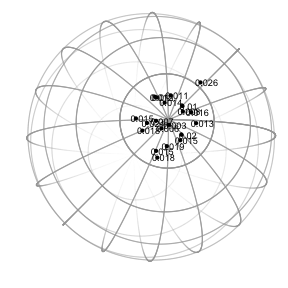
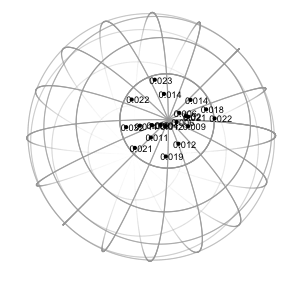
update with spherical outlier detection

Changed region(s): [[0.4062, 0.25, 0.8125, 0.5625]]

diff --git a/OutlierDetection/Outliers.tex b/OutlierDetection/Outliers.tex
@@ -61,13 +61,13 @@
 \Large{\bf Outlier Detection for Circular and Spherical Data}
 \end{center}
 \normalsize
-In this document I summarize the work done for outlier detection for circular, sphereical and related data types
+In this document I summarize the work done for outlier detection for circular, spherical and related data types
 
 \section{Circular Data}
 
-In \cite{collett1980}, four statistics to identify outliers in ciruclar data are defined.  Only the von Mises distribution on the circle is considered in the simulation study, but three of the statistics are general and could be applied to any circule distribution. 
+In \cite{collett1980}, four statistics to identify outliers in circular data are defined.  Only the von Mises distribution on the circle is considered in the simulation study, but three of the statistics are general and could be applied to any circular distribution. 
 
-The $L$-statistic is the likelihood ratio test statistic that tests the null hypothesis that all observtions are from a single von Mises($\mu,\kappa$) versus the alternative that one observation comes from a von Mises distribution with a different mean direction.  This is sometimes called the location-slippage alternative hypothesis.  The test-statistic in the context of the von Mises distribution for the observation $\theta_k$ is
+The $L$-statistic is the likelihood ratio test statistic that tests the null hypothesis that all observations are from a single von Mises($\mu,\kappa$) versus the alternative that one observation comes from a von Mises distribution with a different mean direction.  This is sometimes called the location-slippage alternative hypothesis.  The test-statistic in the context of the von Mises distribution for the observation $\theta_k$ is
 \[
 L=(R_k+1)\hat{\kappa}_k-\hat{\kappa}R-n\log\left[\frac{I_0(\hat{\kappa}_k)}{I_0(\hat{\kappa})}\right]
 \]
@@ -83,7 +83,7 @@ The $D$-statistic is the ratio of the arcs on either side of the observation.  T
 \[
 T_i=\theta_{(i+1)}-\theta_{(i)}\hspace{1em}\text{ and }\hspace{1em}T_n=2\pi-\theta_{(n)}+\theta_{(i)}.
 \]
- Also set $T_{0}=T_{n}$ then for $i=1,\dots,n$, $D_i=T_i/T_{i-1}$ is the ratio of the arc-lengths on either side of the $i$th obseration.  Finally let $\theta_k$ be the observation that visually appears to be an outlier and define $D=\text{min}(D_k,D_{k}^{-1})$ then $D\in(0,1)$ and is unambigious.
+ Also set $T_{0}=T_{n}$ then for $i=1,\dots,n$, $D_i=T_i/T_{i-1}$ is the ratio of the arc-lengths on either side of the $i$th observation.  Finally let $\theta_k$ be the observation that visually appears to be an outlier and define $D=\text{min}(D_k,D_{k}^{-1})$ then $D\in(0,1)$ and is unambiguous.
 
 \begin{knitrout}
 \definecolor{shadecolor}{rgb}{0.969, 0.969, 0.969}\color{fgcolor}
@@ -101,13 +101,43 @@ T_i=\theta_{(i+1)}-\theta_{(i)}\hspace{1em}\text{ and }\hspace{1em}T_n=2\pi-\the
 
 
 
-Finally, the $M$-statistic was originally suggested by \cite{mardia1975} and is simiar in spirit to the $C$-stastic, namely
+Finally, the $M$-statistic was originally suggested by Mardia (1975) \cite{mardia1975} and is similar in spirit to the $C$-statistic, namely
 \[
 M=\min_i\left(\frac{n-1-R_i}{n-R}\right)
 \]
-where $R$ is mean resultant length based on the entire sample of size $n$ and $R_i$ is the mean resultant length after the $i$th obervation is deleted.  To put this on the same scale as the other statistics discussed \cite{collett1980} considers $1-M$.
+where $R$ is mean resultant length based on the entire sample of size $n$ and $R_i$ is the mean resultant length after the $i$th observation is deleted.  To put this on the same scale as the other statistics discussed in \cite{collett1980} consider $1-M$.
 
 In a simulation study they determine the $C$ and $D$ statistics are the best choices.  Because $D$ is easier to compute it comes the most highly recommended.
+
+According to Mardia et al. (2009) \cite{mardia2009},  Best \& Fisher (1986) \cite{best1986} and Bagchi \& Guttman \cite{bagchi1990} consider other ways to identify outliers but I can't get a hold of either of these articles to read.
+
+\section{Spherical Data}
+
+Fisher, Lewis \& Willcox (1981) \cite{fisher1981} extend the statistics of \cite{collett1980} to spherical data and also add a few of their own.  Several outliers in a single sample are also considered.  They focus on Fisher's distribution on the sphere.
+
+The spherical analog of Collett's $C$-statistic is
+\[
+C_n=\frac{\bar{R}_n^{(i)}-\bar{R}_n}{\bar{R}_n}.
+\]
+
+Using the approximations coth$(\kappa)\approx 1$ and $\log(\text{sinh}\kappa)\approx\kappa-\log 2$ the spherical analogs of Collett's $M$ (and for $\kappa>2.5$ Collett's $L$) is 
+\[
+E_n=(n-2)\frac{1+R_{n-1}^{(i)}-R_n}{n-1-R_{n-1}^{(i)}}.
+\]
+$E_n$ is based on a generalised likelihood-ratio test statistic testing the alternative location-slippage hypothesis.
+
+Alternative, one can test the alternative hypothesis that the mean directions are the same, but the concentration parameters are different.  This leads to the generalised likelihood-ratio test-statistic
+\[
+D_n=(n-1)f(\bar{R}_{n-1}^{(i)})+f(\bar{R}_1^{(i)})-nf(\bar{R}_n)
+\]
+where $f(\bar{r})=\log\hat\kappa(\bar{r})+(\bar{r}-1)\hat\kappa(\bar{r})$ and $\kappa(\bar{r})$ is the concentration parameter estiamte based on the sample mean resultant length $\bar{r}$.
+
+Let $l_i$, $m_i$ and $n_i$ be the direction cosines for $(\theta_i,\phi_i)$, $1\leq i\leq n$ and let $l_i'$, $m_i'$ and $n_i'$ be the direction cosines after they've been centered around a pole.  Define $\theta_i'=\cos^{-1}(n_i')$ and $c_i=1-n_i'$ then order them $\theat_{(i)}'$ and $c_{(i)}$.  The gap test for an outlying observation can be based on
+\[
+G_n=\frac{\pi-\theta_{(n)}'}{\theta_{(n)}'-\theta_{(n-1)}'}.
+\]
+
+The test statistic Ea 1 of Barnett and Lewis ()
 \bibliographystyle{plain}
 \bibliography{RobustRefs}
 

diff --git a/OutlierDetection/Outliers-concordance.tex b/OutlierDetection/Outliers-concordance.tex
@@ -1,2 +1,2 @@
 \Sconcordance{concordance:Outliers.tex:Outliers.Rnw:%
-1 6 1 50 0 1 6 39 1 1 9 3 1 1 36 13 1}
+1 6 1 50 0 1 6 39 1 1 9 3 1 1 36 43 1}
